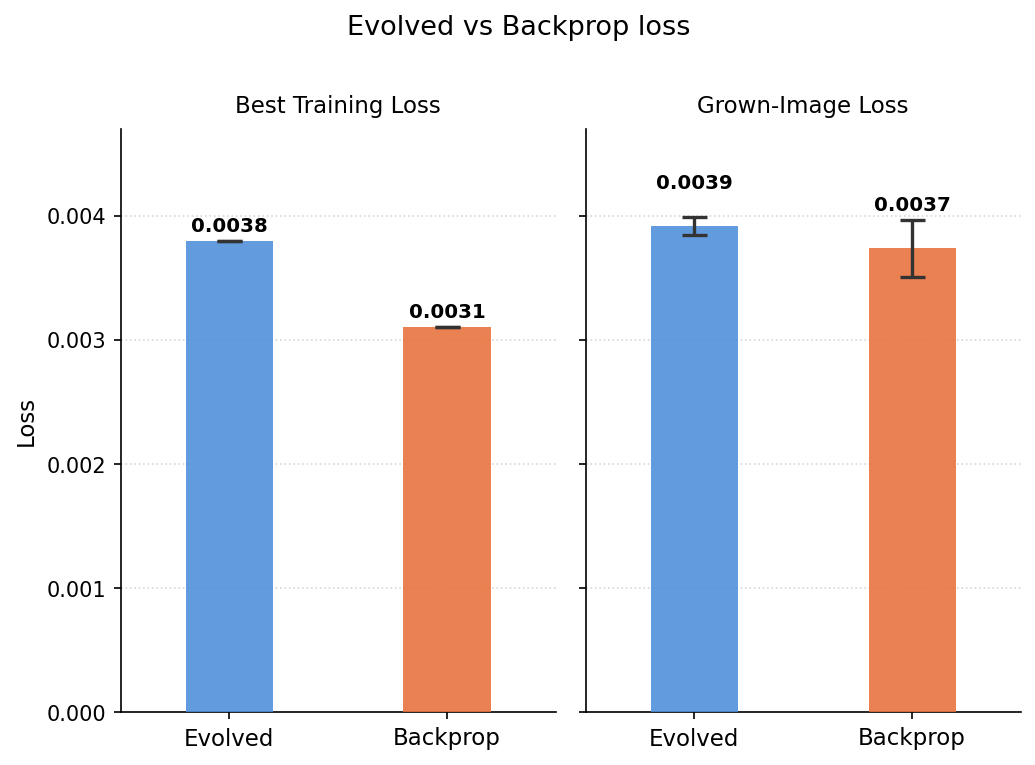
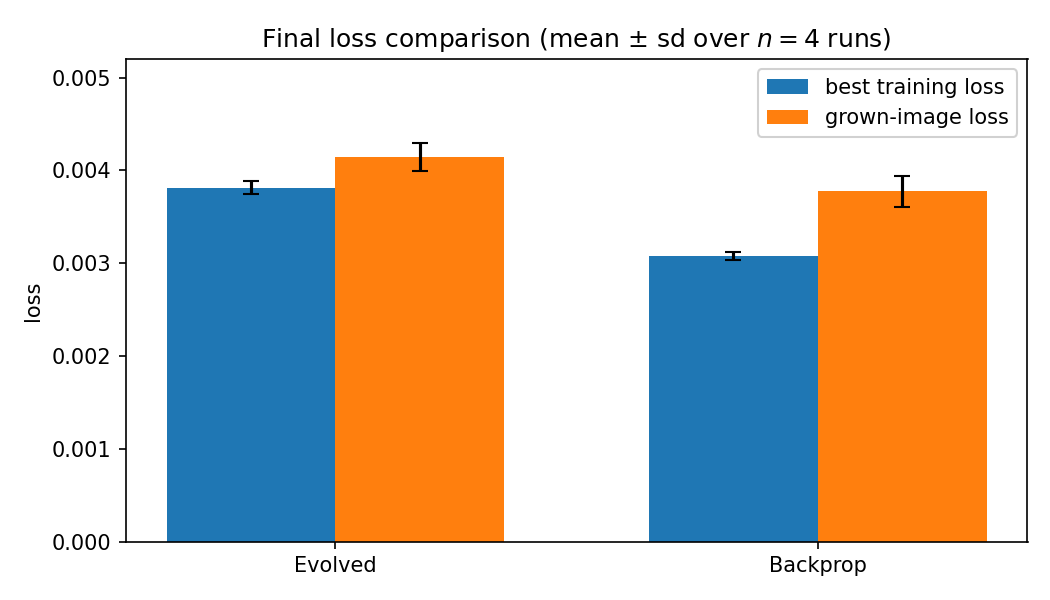
n=4 results

diff --git a/ProjectNaCo/FinalReport/FinalReport.tex b/ProjectNaCo/FinalReport/FinalReport.tex
@@ -231,13 +231,12 @@ As detailed in the Evaluation Metrics section, we also explore SSIM \cite{wang20
 \subsection*{Experiment 1: Comparing our CMA-ES approach with their gradient-approach}
 \subsection*{1.1: Comparison after 30 Minutes runtime}
 
-While the gradient-based model reaches better results in the same time, the loss of the NCA-ES trained adversarial attack is not too far off (figure~\ref{fig:loss-graph}). 
-It is interesting to note that the gradient-based attack has a higher standard deviation than the evolved one.
+Averaged over four independent runs, the gradient-based model reaches a slightly lower final loss in the same time, but the black-box CMA-ES attack stays close (figure~\ref{fig:loss-graph}). A paired comparison of the grown-image loss across the four runs shows the gradient baseline lower in every run (mean $0.00377 \pm 0.00017$ versus $0.00414 \pm 0.00015$), although the gap is small and only marginally significant ($p \approx 0.07$, paired $t$-test, $n=4$). Both methods lie roughly five times below the empty-seed baseline loss of $0.0218$, confirming that both clearly succeed at the attack. Although the gradient baseline runs about eleven times as many iterations in the same wall-clock budget ($4836 \pm 85$ versus $434 \pm 24$), each gradient iteration is a single small mini-batch update, whereas every CMA-ES generation evaluates a full population of candidates. The more meaningful measure of compute is therefore the cumulative number of forward NCA state-steps, by which the evolutionary attack is the more expensive of the two, using roughly three times as many ($\approx 9\times10^6$ versus $3\times10^6$).
 
 \begin{figure}[H]
 	\centering
 	\includegraphics[width=0.9\linewidth]{"optona & comparison output/loss graph"}
-	\caption{The best loss achieved during training and the averaged loss of the final model after training both of our implementation and the gradient-based implementation after 30 minutes of training time. 366 generations/4719 steps.}
+	\caption{The best loss achieved during training and the grown-image loss of the final model, for both our implementation and the gradient-based implementation after 30 minutes of training time. Bars show the mean over $n=4$ independent runs and error bars the across-run standard deviation.}
 	\label{fig:loss-graph}
 \end{figure}
 
@@ -252,8 +251,8 @@ the evolutionary attack is highly competitive. Figure~\ref{fig:loss-plot-1} show
 significantly more update steps and converges to a marginally lower final loss than the CMA-ES attack.
 While the loss per iteration (figure~\ref{fig:loss-plot-2}) appears superficially comparable, this metric masks the differing computational payloads.
 A single CMA-ES iteration evaluates an entire population of candidates, whereas the gradient-based iteration evaluates a single mini-batch.
-The loss per cumulative NCA state-steps (figure~\ref{fig:other-loss-plot}) isolates forward-pass sample efficiency, highlighting that the CMA-ES attack requires 
-roughly an order of magnitude more simulation steps to achieve convergence compared to the gradient-based baseline.
+The loss per cumulative NCA state-steps (figure~\ref{fig:other-loss-plot}) isolates forward-pass sample efficiency, highlighting that the CMA-ES attack requires
+roughly three times as many cumulative simulation steps to reach a comparable loss as the gradient-based baseline.
 Thus, when analyzing the loss per iteration or per cumulative NCA state-step, the inherent sample inefficiency of the CMA-ES attack becomes apparent.
 \begin{figure}[H]
     \centering
@@ -345,30 +344,21 @@ The changes from identity (not shown in Figure \ref{fig:final-perturbation-matri
 	\label{fig:final-perturbation-matrices}
 \end{figure}
 
-Finally, Table \ref{tab:quantitative-metrics} presents the quantitative evaluation of both attack methods. The structural similarity 
-(SSIM) scores are nearly identical, showing that both methods recover the broad spatial structure of the target image equally well. 
-However, the gradient baseline performs better on the Learned Perceptual Image Patch Similarity (LPIPS) and the Target Specific Score 
-(TSS). This aligns with our visual observation that the gradient attack better reconstructs semantic features like the eyes and the 
-dorsal stripe. Conversely, the CMA-ES approach achieves a slightly lower 2D-FFT score. This suggests that while the evolutionary 
-approach struggles with specific target traits, it introduces slightly less high frequency structural noise into the final grid than 
-the gradient method. Overall, the quantitative metrics confirm that the black box attack produces highly competitive results that 
-closely follow the gradient baseline.
+Finally, Table \ref{tab:quantitative-metrics} presents the quantitative evaluation of both attack methods, averaged over the four runs. Across the structural, perceptual, and frequency-domain metrics (SSIM, LPIPS, and 2D-FFT) the two methods are statistically indistinguishable: none of the paired differences are significant ($p = 0.21$, $0.99$, and $0.82$ respectively, paired $t$-test, $n=4$), and the LPIPS and 2D-FFT means are essentially identical. The Target-Specific Score (TSS), which we scored on a single representative run, favours the gradient baseline ($0.533$ versus $0.467$), consistent with our visual observation that the gradient attack better reconstructs semantic features such as the eyes and the dorsal stripe. Overall, the only consistent quantitative gap is the slightly lower grown-image loss of the gradient baseline; on every perceptual metric the black-box attack closely follows it.
 
 \begin{table}[H]
 	\centering
 	% \renewcommand{\arraystretch}{1.2}
 	\resizebox{\linewidth}{!}{
-		\begin{tabular}{lcccc}
+		\begin{tabular}{lccccc}
 			\hline
-			Method & SSIM $\uparrow$ & LPIPS $\downarrow$ & 2D-FFT $\downarrow$ & TSS $\uparrow$\\ 
+			Method & Grown loss $\downarrow$ & SSIM $\uparrow$ & LPIPS $\downarrow$ & 2D-FFT $\downarrow$ & TSS $\uparrow$\\
 			\hline
-			CMA-ES & 0.932 & 0.090 & 0.440 & 0.467\\ 
-			% Gradient-start &  0.941 &  0.070 &  0.435 &  0.53\\ 
-			Gradient & 0.930 & 0.073 & 0.450 & 0.533\\ 
-			% White Noise & 0.857 & 0.551 & 1.488 & 0.00 \\ 
+			CMA-ES & $0.00414{\pm}0.00015$ & $0.933{\pm}0.001$ & $0.077{\pm}0.009$ & $0.438{\pm}0.006$ & $0.467$\\
+			Gradient & $0.00377{\pm}0.00017$ & $0.937{\pm}0.005$ & $0.077{\pm}0.004$ & $0.440{\pm}0.010$ & $0.533$\\
 			\hline
 	\end{tabular}}
-	\caption{Quantitative comparison of evaluation metrics for the CMA-ES approach and the gradient baseline. Higher SSIM, lower LPIPS, lower 2D-FFT, and higher TSS indicate better visual fidelity to the target image.}
+	\caption{Quantitative comparison of the CMA-ES approach and the gradient baseline, reported as mean $\pm$ standard deviation over $n=4$ independent runs (TSS scored on a single representative run). Higher SSIM and TSS, and lower grown-image loss, LPIPS, and 2D-FFT, indicate better fidelity to the target image.}
 	\label{tab:quantitative-metrics}
 \end{table}
 
@@ -560,8 +550,8 @@ The results show that the selection of loss function affects the quality of the 
 Compared to the original backpropagation version, our NCA-ES tuned adversarial attack is less effective in the same time. That said, the evolutionary version is in our opinion surprisingly not that far behind and produces results which are roughly on the same qualitative level as the ones presented by \cite{randazzo2021adversarial}. 
 
 Comparing these two methods highlights a tradeoff between threat models and overall resource costs. 
-Because CMA-ES evaluates entire populations instead of using gradients, it requires roughly ten times more forward simulation 
-steps. Despite this computational penalty, the evolutionary attack remains competitive in practical wall clock time. However, 
+Because CMA-ES evaluates entire populations instead of using gradients, it requires roughly three times more forward simulation
+steps. Despite this computational penalty, the evolutionary attack remains competitive in practical wall clock time. However,
 when we measure the environmental footprint required to reach a specific target loss of -2.5 (on a log$_{10}$ scale), the differences become obvious. 
 The gradient approach is significantly more efficient. It reaches the target in half the time, uses half the total energy, 
 and produces half the carbon emissions compared to the CMA-ES method. While the gradient baseline is greener and faster, 
@@ -603,19 +593,18 @@ Furthermore, these loss functions were selected because of their relation to the
 
 Other than addressing the stated limitations and issues in the previous paragraphs, there are several directions the future work could follow.
 Asymmetrical perturbation matrix would allow for a wider search space and different resulting attack strategies.
-Improving efficiency is also crucial as CMA-ES currently needs roughly 10 times more NCA forward passes than the gradient-based baseline. Other strategies such as gray-box attacks, natural evolution strategies, or other approaches could reduce the cost.
+Improving efficiency is also crucial as CMA-ES currently needs roughly three times more NCA forward passes than the gradient-based baseline. Other strategies such as gray-box attacks, natural evolution strategies, or other approaches could reduce the cost.
 Furthermore, we have not fully replicated the other experiments by Randazzo et al. \cite{randazzo2021adversarial}, such as the removal of limbs, combining multiple perturbations at the same time, and even adversarial injections.
 Doing so would involve a different parameter configuration setting and different fitness function and more. While the black-box model performed well so far, and we believe it would perform well on these task as well, it would be interesting to see how well it compares.
 Therefore, future work should explore and replicate these other experiments as well and see how the black-box model compares.
 Finally, future work should test if the perturbation matrix found by CMA-ES would corrupt the defense layers used by Xu et al. \cite{xu2024adanca} inside their Vision Transformers.
 
 \section*{Conclusion}
-This work explores whether a query-only, black-box attacker using evolutionary search can reproduce the same targeted adversarial reprogramming of Growing NCA which was previously only demonstrated with a white-box, gradient-based methods. 
-Comparing the final grown image loss and visual output quality, we compare the methods.
-In this work we show that a realistic attacker who has no access to model weights and gradients can change the NCA output towards a selected target image, just like the gradient approach could, by using CMA-ES to optimize a global $16 \times 16$ state perturbation matrix.
+\todo[inline]{Conclusions. Is your line of work worth pursuing?}
 
+Overall, our query-only evolutionary attack comes close to the white-box gradient baseline. It reproduces the same targeted reprogramming and reaches a visually similar result (with near-identical SSIM and comparable LPIPS, 2D-FFT, and TSS). Within the same 30-minute budget the gradient baseline still converges to a somewhat lower loss and slightly sharper detail, but our attack lands in the same range rather than being clearly worse. This closeness comes at a cost, as CMA-ES needs roughly three times more NCA forward passes and more energy to get there. At the same time it shows some interesting properties: it achieves its results with minimal changes to the starter perturbation matrix and appears to fail more gracefully than the gradient approach from a fully random start. The attack also generalises beyond the colour change, approximating a different target (the butterfly) by simply swapping the target image, with the choice of fitness function further shaping the result. We do, however, confirm that the attacks are not permanent, as the NCA regenerates its original form within a few hundred steps once the perturbation is switched off.
 
-Overall, our evolutionary approach manages to come quite close to the baseline gradient approach. Though it takes longer and more compute to reach results as well for the main experiment, it has some interesting properties in that it achieves its results with minimal changes to the starter perturbation matrix and deals better with a fully random starter perturbation matrix. We show that blackbox attacks in which the target model is not available for backpropagation can succeed against NCA models, indicating that perhaps NCA's are not as robust against attacks as indicated by prior literature.
+We have shown that a white-box attack is not needed to successfully attack NCA's and that they may not be as robust as they were priorly considered.
 
 \newpage
 
@@ -687,15 +676,8 @@ Overall, our evolutionary approach manages to come quite close to the baseline g
 
 % \appendix
 \section*{Author Contribution}
-
-\textbf{Aaron :} Developed the core CMA-ES attack framework, including the perturbation matrix parameterization, initialization strategies, and hyperparameter optimization via Optuna sweeps.
-
-\textbf{Jason :} Designed the evaluation metric suite including the Target-Specific Semantic Score rubric (Appendix D), implemented the SSIM, LPIPS, 2D-FFT, and TSS pipeline used to assess all experiments, set up and ran the gradient-based baseline for comparison, and conducted the environmental impact analysis
-
-\textbf{David :} Implemented and ran the lizard-to-butterfly experiment, the perturbation on/off recovery experiment, and the comparison of different fitness functions.
-
-Tasks were divided roughly equally, with each member independently running their experiments and sharing results with the group. All members contributed to the writing of this report, primarily reporting on their own experiments, with collective involvement in the introduction, discussion, and conclusion.
-
+Author contribution: describe each team member contributions to the project.
+\todo[inline]{needed}
 
 
 \section*{Code}
@@ -705,7 +687,7 @@ Tasks were divided roughly equally, with each member independently running their
 %a short manual describing how to use/run the program;
 %a sample run, screenshot, or other indication of system behavior.
 
-All code used in this project can be found at https://github.com/DavidMagaram/NaturalComputingFinal. 
+All code used in this project can be found at https://github.com/DavidMagaram/NaturalComputing. 
 All experiments were performed using Jupyter notebooks that were developed in Google Colab using a T4 GPU, and can be located in the $Codee$ folder. 
 No additional installation or configuration is needed.
 
